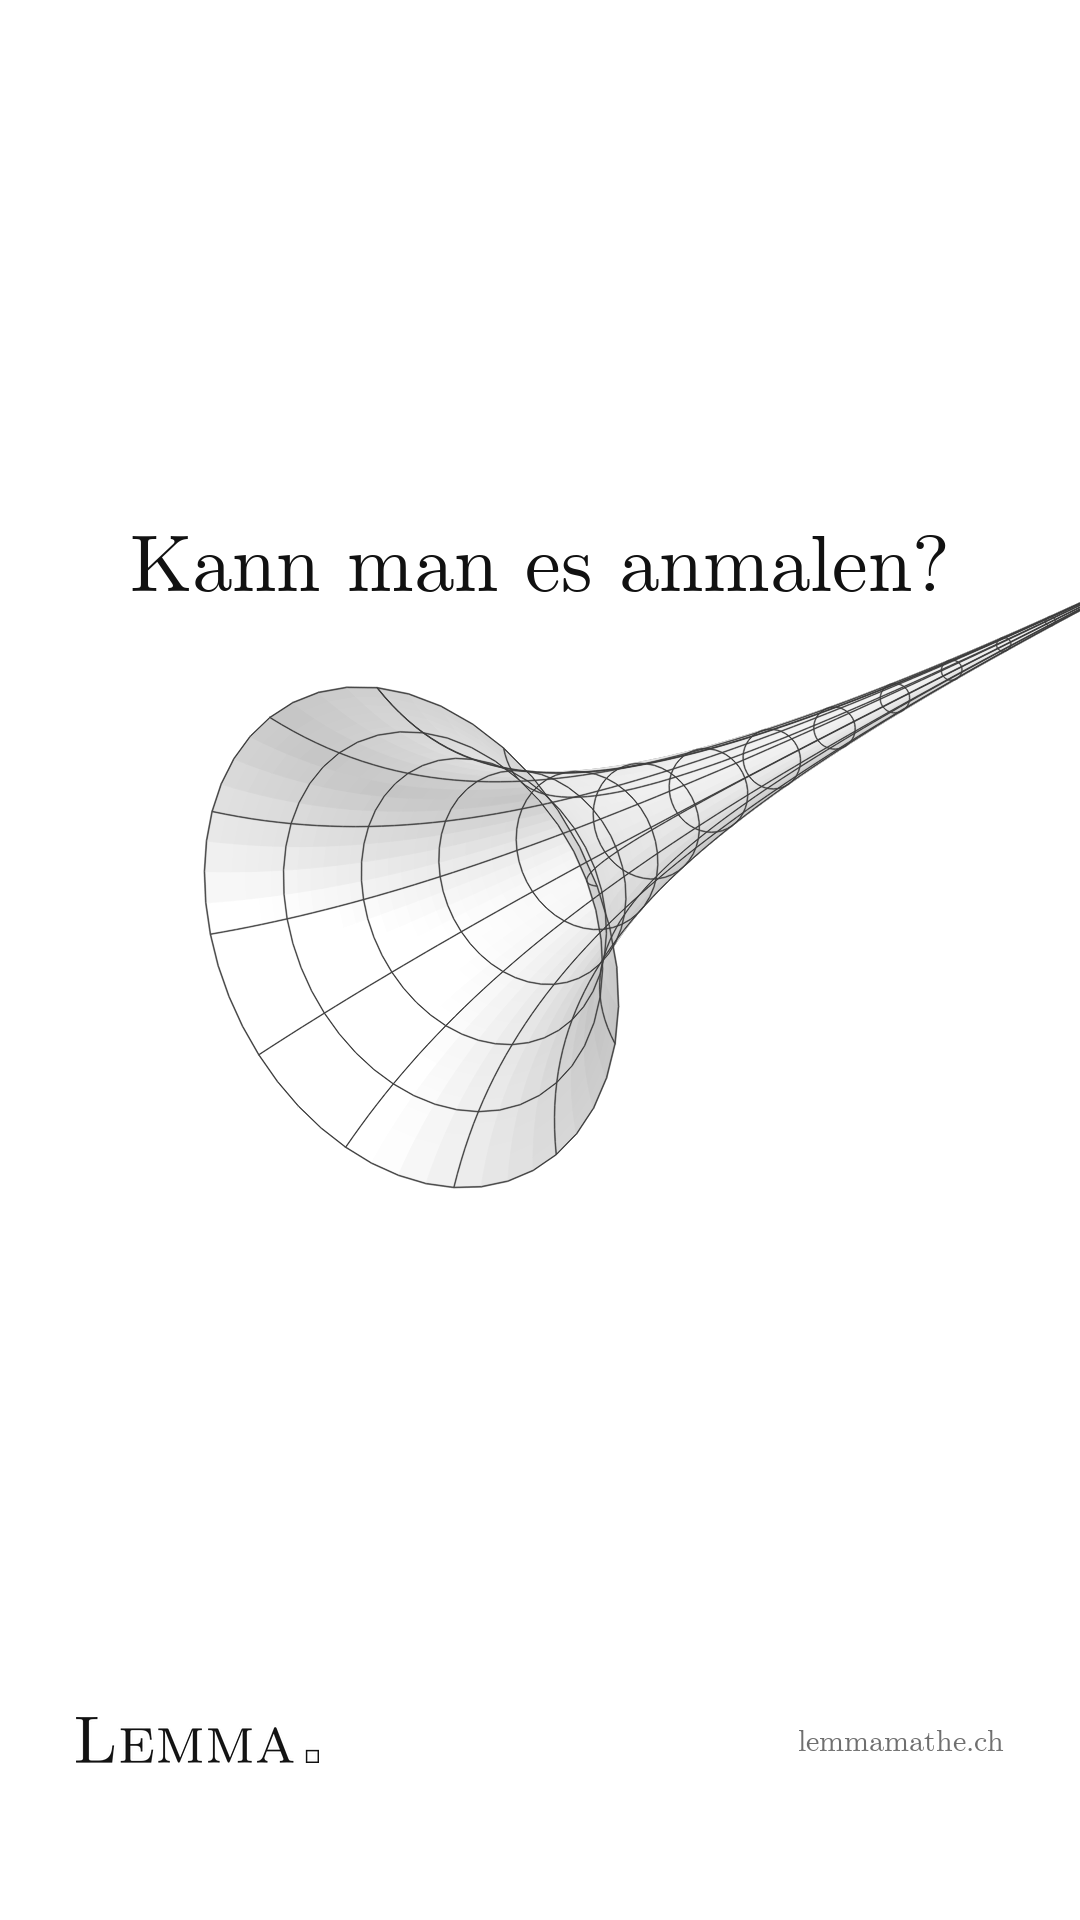
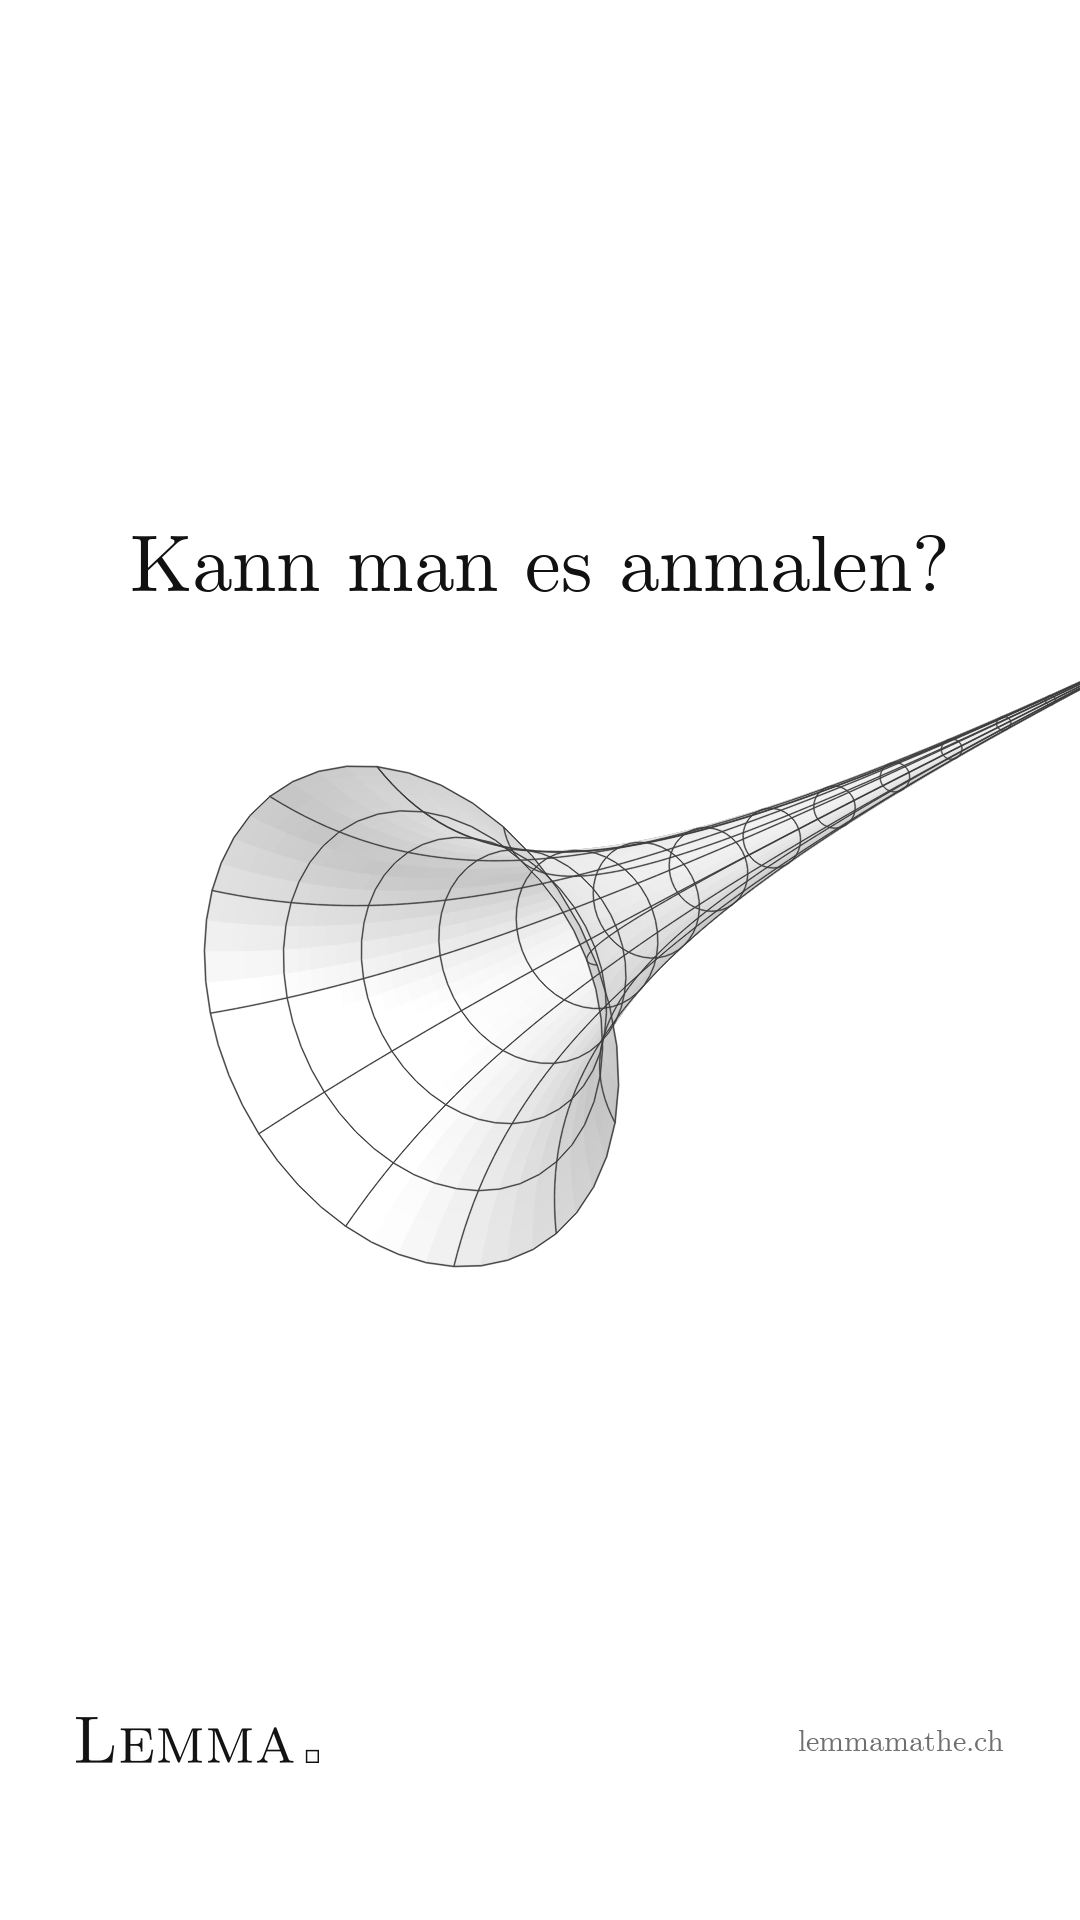
Gabriels Horn: ganzes Horn mit Abstand unter der Überschrift, version 4
Gemessen wird jetzt der höchste Punkt des ganzen Horns, auch die dünne
Spitze rechts, die vorher fast die Schrift berührte.

Changed region(s): [[0.1833, 0.3125, 1.0, 0.6562], [0.3361, 0.5938, 0.3972, 0.625]]

diff --git a/index.html b/index.html
@@ -400,9 +400,47 @@
   @media (min-width: 56rem) {
     .plot-layout { grid-template-columns: 19rem minmax(0, 1fr); grid-template-rows: auto 1fr; grid-template-areas: "panel stage" "panel info"; column-gap: 2.5rem; row-gap: 2.25rem; align-items: start; }
   }
-  .plot-stage { grid-area: stage; position: relative; border: var(--line); background: var(--white); }
+  .plot-stage { grid-area: stage; border: var(--line); background: var(--white); }
+  .plot-canvas-wrap { position: relative; }
   .plot-canvas { display: block; width: 100%; height: clamp(18rem, 48vh, 40rem); touch-action: none; cursor: grab; }
   @media (min-width: 56rem) { .plot-canvas { height: clamp(20rem, 64vh, 40rem); } }
+  .plot-bar {
+    display: flex; flex-wrap: wrap; align-items: center; justify-content: space-between; gap: .3rem 1.2rem;
+    padding: .35rem .7rem; border-top: var(--line); font-size: .95rem;
+  }
+  .plot-bar-group { display: flex; flex-wrap: wrap; align-items: center; gap: .3rem 1.1rem; }
+  .icon-btn { width: 1.9rem; height: 1.9rem; padding: 0; border: 0; background: none; font: inherit; font-size: 1.25rem; line-height: 1; color: var(--black); cursor: pointer; }
+  .icon-btn:hover:not(:disabled) { background: var(--grey); }
+  .icon-btn:disabled { color: #b5b5b5; cursor: default; }
+  #panel-toggle { display: none; }
+
+  /* Vollbild für den Beamer: Grafik füllt den Bildschirm, alles grösser */
+  body.labor-vollbild { overflow: hidden; }
+  .plot-layout.is-vollbild {
+    position: fixed; inset: 0; z-index: 50; margin: 0; padding: 0 0 0 1.5rem; background: var(--white);
+    grid-template-columns: 24rem minmax(0, 1fr); grid-template-rows: auto 1fr; grid-template-areas: "panel stage" "info stage";
+    column-gap: 1.5rem; row-gap: 1.5rem; overflow-y: auto; overscroll-behavior: contain;
+  }
+  .plot-layout.is-vollbild .plot-panel { padding-top: 1.2rem; zoom: 1.2; }
+  .plot-layout.is-vollbild .plot-info { padding-bottom: 1.5rem; zoom: 1.2; }
+  .plot-layout.is-vollbild .plot-stage {
+    position: sticky; top: 0; grid-row: 1 / span 2; align-self: start; height: 100vh; height: 100dvh;
+    display: flex; flex-direction: column; border-width: 0 0 0 1px;
+  }
+  .plot-layout.is-vollbild .plot-canvas-wrap { flex: 1; min-height: 0; }
+  .plot-layout.is-vollbild .plot-canvas { height: 100%; }
+  .plot-layout.is-vollbild .plot-bar { font-size: 1.1rem; }
+  .plot-layout.is-vollbild .plot-readout { font-size: 1.4rem; }
+  .plot-layout.is-vollbild .plot-tools button { width: 2.8rem; height: 2.8rem; font-size: 1.4rem; }
+  .plot-layout.is-vollbild #panel-toggle { display: inline; }
+  .plot-layout.is-vollbild.ohne-panel { grid-template-columns: minmax(0, 1fr); grid-template-areas: "stage"; padding: 0; }
+  .plot-layout.is-vollbild.ohne-panel .plot-panel, .plot-layout.is-vollbild.ohne-panel .plot-info { display: none; }
+  .plot-layout.is-vollbild.ohne-panel .plot-stage { grid-row: auto; border: 0; }
+  @media (max-width: 55.99rem) {
+    .plot-layout.is-vollbild { padding: 0; grid-template-columns: minmax(0, 1fr); grid-template-areas: "stage"; }
+    .plot-layout.is-vollbild .plot-panel, .plot-layout.is-vollbild .plot-info, .plot-layout.is-vollbild #panel-toggle { display: none; }
+    .plot-layout.is-vollbild .plot-stage { grid-row: auto; border: 0; }
+  }
   .plot-canvas.is-dragging { cursor: grabbing; }
   .plot-tools { position: absolute; top: .6rem; right: .6rem; display: flex; flex-direction: column; border: var(--line); background: var(--white); }
   .plot-tools button {
@@ -507,6 +545,9 @@
   .mini input { width: 3.6rem; padding: .1rem .15rem; font-family: var(--mono); font-size: .95rem; border: 0; border-bottom: var(--line); border-radius: 0; background: none; color: var(--black); }
   .mini input:focus { outline: 0; border-bottom-width: 2px; }
   .mini input[aria-invalid="true"] { border-bottom-style: dashed; }
+  .achsen { display: grid; grid-template-columns: 1rem auto auto; justify-content: start; gap: .35rem 1rem; align-items: baseline; }
+  .achsen input { width: 4rem; }
+  .achsen-checks { margin-top: .6rem; }
 
   /* unter der Grafik: Ergebnisse wie im Skript */
   .plot-info { grid-area: info; display: flex; flex-direction: column; gap: 2rem; }
@@ -705,15 +746,29 @@
     <div class="wrap">
       <h1 class="page-title" tabindex="-1">Funktionslabor</h1>
       <p class="lead">Funktionen zeichnen, verschieben, ableiten und integrieren.</p>
-      <div class="plot-layout">
+      <div class="plot-layout" id="plot-layout">
         <div class="plot-stage">
-          <canvas class="plot-canvas" id="plot" aria-label="Koordinatensystem"></canvas>
-          <div class="plot-tools">
-            <button type="button" id="zoom-in" aria-label="Hineinzoomen">+</button>
-            <button type="button" id="zoom-out" aria-label="Herauszoomen">−</button>
-            <button type="button" id="zoom-reset" aria-label="Ansicht zurücksetzen">⌂</button>
+          <div class="plot-canvas-wrap">
+            <canvas class="plot-canvas" id="plot" aria-label="Koordinatensystem"></canvas>
+            <div class="plot-tools">
+              <button type="button" id="zoom-in" aria-label="Hineinzoomen" title="Hineinzoomen">+</button>
+              <button type="button" id="zoom-out" aria-label="Herauszoomen" title="Herauszoomen">−</button>
+              <button type="button" id="zoom-reset" aria-label="Ansicht zurücksetzen" title="Ansicht zurücksetzen">⌂</button>
+            </div>
+            <div class="plot-readout m" id="readout" hidden></div>
           </div>
-          <div class="plot-readout m" id="readout" hidden></div>
+          <div class="plot-bar">
+            <span class="plot-bar-group">
+              <button type="button" class="icon-btn" id="undo" aria-label="Rückgängig" title="Rückgängig (Strg+Z)" disabled>↶</button>
+              <button type="button" class="icon-btn" id="redo" aria-label="Wiederholen" title="Wiederholen (Strg+Y)" disabled>↷</button>
+            </span>
+            <span class="plot-bar-group">
+              <button type="button" class="link-btn" id="img-save">Bild speichern</button>
+              <button type="button" class="link-btn" id="img-copy" hidden>Bild kopieren</button>
+              <button type="button" class="link-btn" id="panel-toggle" aria-pressed="false">Eingaben ausblenden</button>
+              <button type="button" class="link-btn" id="beamer" aria-pressed="false">Vollbild</button>
+            </span>
+          </div>
         </div>
 
         <div class="plot-panel">
@@ -725,7 +780,7 @@
               <button type="button" class="link-btn" id="reset">Zurücksetzen</button>
             </p>
             <div class="kbd" id="kbd" aria-label="Mathe-Tastatur" hidden></div>
-            <p class="plot-help">Funktion <code>x^2</code>, Punkt <code>(2|1)</code>, Gerade <code>x = 3</code>. Buchstaben wie <i>a</i> oder <i>k</i> werden zu Reglern.</p>
+            <p class="plot-help">Funktion <code>x^2</code>, Punkt <code>(2|1)</code>, Gerade <code>x = 3</code>. Buchstaben wie <i>a</i> oder <i>k</i> werden zu Reglern. Punkte lassen sich im Bild ziehen, <code>(a|a^2)</code> wandert dabei auf der Parabel.</p>
           </div>
           <div class="plot-box" id="slider-box" hidden>
             <h2>Parameter</h2>
@@ -764,6 +819,21 @@
                   <label>Schritt <input type="text" id="tab-step" value="1" autocomplete="off" spellcheck="false"></label>
                 </div>
               </div>
+            </div>
+          </div>
+          <div class="plot-box">
+            <h2>Achsen</h2>
+            <div class="mini achsen">
+              <span class="m"><i>x</i></span>
+              <label>von <input type="text" id="ax-xmin" autocomplete="off" spellcheck="false" aria-label="x-Achse von"></label>
+              <label>bis <input type="text" id="ax-xmax" autocomplete="off" spellcheck="false" aria-label="x-Achse bis"></label>
+              <span class="m"><i>y</i></span>
+              <label>von <input type="text" id="ax-ymin" autocomplete="off" spellcheck="false" aria-label="y-Achse von"></label>
+              <label>bis <input type="text" id="ax-ymax" autocomplete="off" spellcheck="false" aria-label="y-Achse bis"></label>
+            </div>
+            <div class="checks achsen-checks">
+              <label><input type="checkbox" id="opt-grid" checked> Gitter</label>
+              <label><input type="checkbox" id="opt-labels" checked> Zahlen an den Achsen</label>
             </div>
           </div>
         </div>
@@ -998,7 +1068,7 @@ const VIDEOS = [];
                   die neuen Bilder laden statt der zwischengespeicherten
    ===================================================================== */
 const ENTDECKEN = [
-  { ordner: "staunen-gabriels-horn", video: true, version: 3, titel: "Gabriels Horn",
+  { ordner: "staunen-gabriels-horn", video: true, version: 4, titel: "Gabriels Horn",
     untertitel: "Füllen ja, anmalen nie",
     text: "Dreht man die Kurve y = 1/x ab x = 1 um die x-Achse, entsteht ein unendlich langes Horn. Sein Volumen ist genau π – die Oberfläche aber wächst ohne Ende. Man könnte es mit Farbe füllen, aber nie anmalen.",
     stichworte: ["Gabriels Horn", "Torricelli", "Rotationskörper", "Volumen", "Oberfläche", "Integral", "uneigentliches Integral", "unendlich", "3D", "Reel", "Video"] },
